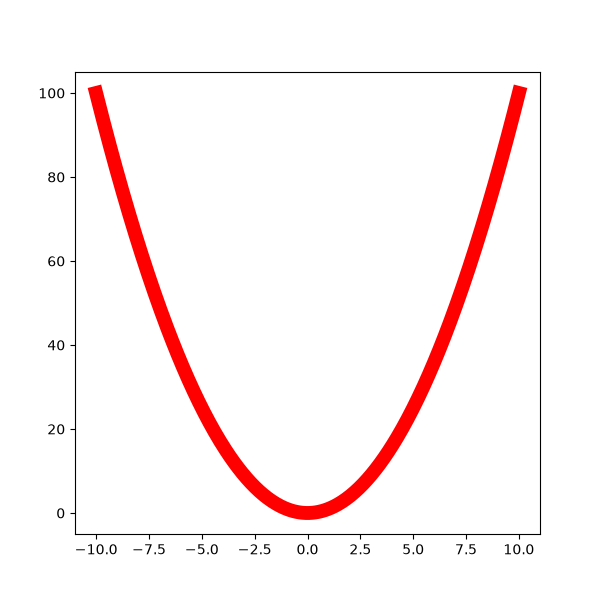
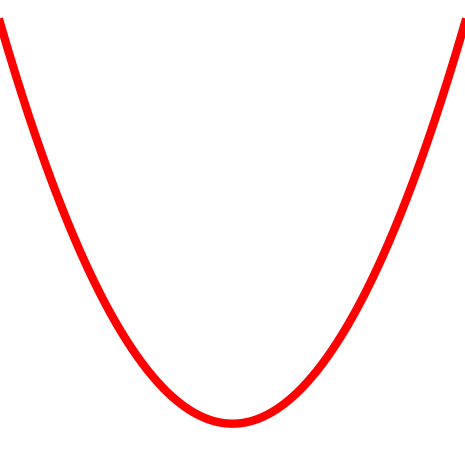
change graphing

diff --git a/client/styles.css b/client/styles.css
@@ -182,7 +182,7 @@ video {
 /* Bottom Control Bar Overlay */
 .bottom-bar {
   position: absolute;
-  bottom: 3rem;
+  bottom: 4rem;
   left: 0;
   width: 100%;
   padding-bottom: 2rem;

diff --git a/graphing.py b/graphing.py
@@ -1,12 +1,15 @@
+import os
 import numpy as np
 import sympy as sp
-import os
-from sympy.parsing.latex import parse_latex
 import matplotlib.pyplot as plt
-#from main import extract_math
+from sympy.parsing.latex import parse_latex
 
+def latex_conversion(latex: str, filename: str, x_min, x_max) -> bool:
+    try:
+        # Cast inputs from string/JSON safely to float
+        x_min, x_max = float(x_min), float(x_max)
 
-def latex_conversion(latex: str, filename: str,x_min, x_max ) -> bool:
+def latex_conversion(latex: str, filename: str,  x_min, x_max) -> bool:
     expression = parse_latex(latex)
     x = sp.Symbol("x")
     
@@ -15,43 +18,26 @@ def latex_conversion(latex: str, filename: str,x_min, x_max ) -> bool:
     x_values = np.linspace(x_min, x_max, 400)
     y_values = func(x_values)
 
+
     fig, ax = plt.subplots(figsize=(6, 6))
 
-    '''
-    Attempting to implement style changes to make the graph more readable
-        set_title()
-        <xlabel, ylabel>
+    ax.plot(x_values, y_values, color="#ff0000", linewidth=10)
 
-        plot(..., color=#1A365D, linewidth=, linestyle=)
-    '''
+        output_dir = "plots"
+        os.makedirs(output_dir, exist_ok=True)
+        filepath = os.path.join(output_dir, filename)
 
-    ax.plot(x_values, y_values, color="#1051AB", linewidth=4)
-
-    for spine in ['top', 'right' ]:
-        ax.spines[spine].set_visible(False)
-
-    ax.spines['bottom'].set_linewidth(4.5)
-    ax.spines['bottom'].set_color("#D51E1E")
-    ax.spines['left'].set_linewidth(4.5)
-    ax.spines['left'].set_color("#D51E1E")
-
-    ax.grid(axis='y', linestyle = '-', linewidth = 1.5, color = '#E2E8F0', zorder = 0)
-    ax.grid(axis = 'x', linestyle = '-', linewidth = 1.5, color = '#E2E8F0', zorder = 0)
-    ax.set_axisbelow(True)
-
-    plt.tick_params('both', labelcolor = "#D51E1E", labelsize = 14)
-
-    output_dir = "plots"
-    os.makedirs(output_dir, exist_ok=True)
-    filepath = os.path.join(output_dir, filename)
-
-    plt.savefig(filepath, transparent=True)
+    plt.savefig(filepath, transparent = True)
     plt.close()
 
-    return True
+        return True
+
+    except Exception as e:
+        plt.close('all')
+        raise RuntimeError(f"Failed to parse and plot expression '{latex}': {e}")
 
 
 if __name__ == "__main__":
-    latex_conversion(r"x^2 - 4", "test_plot2.png", -10, 10)
+    latex_conversion(r"x^2 - 4", "test_plot2.png")
     print("SUCCESS")
     
